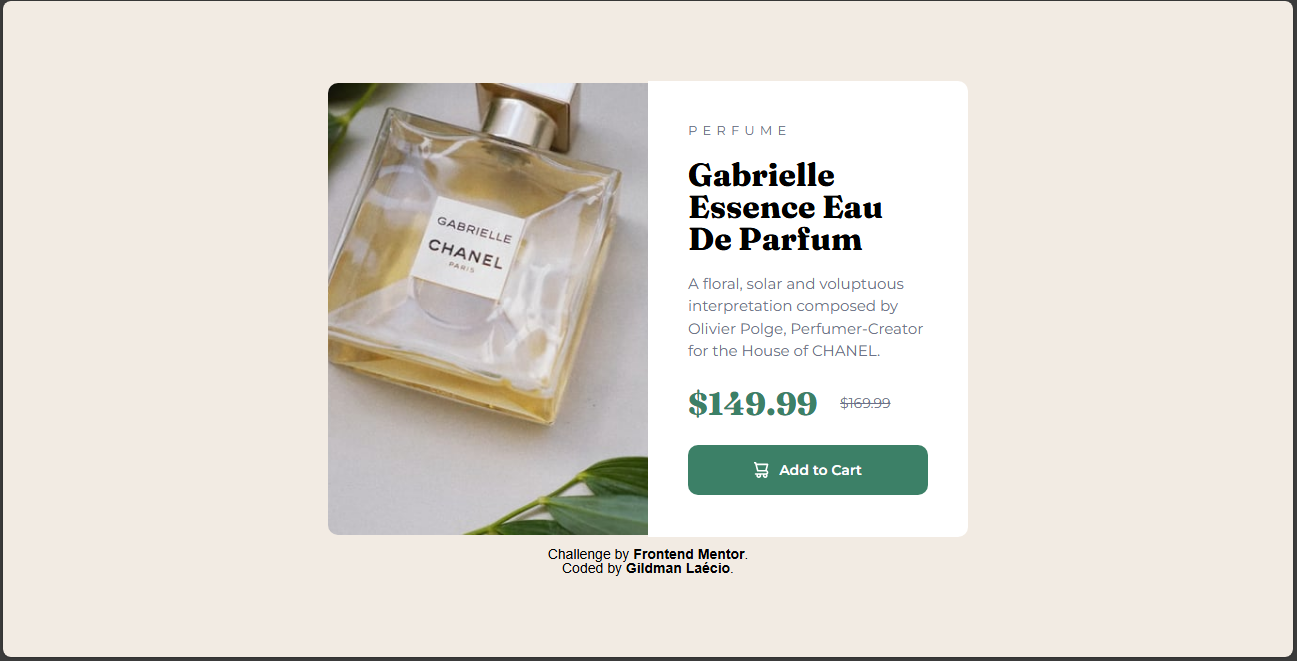
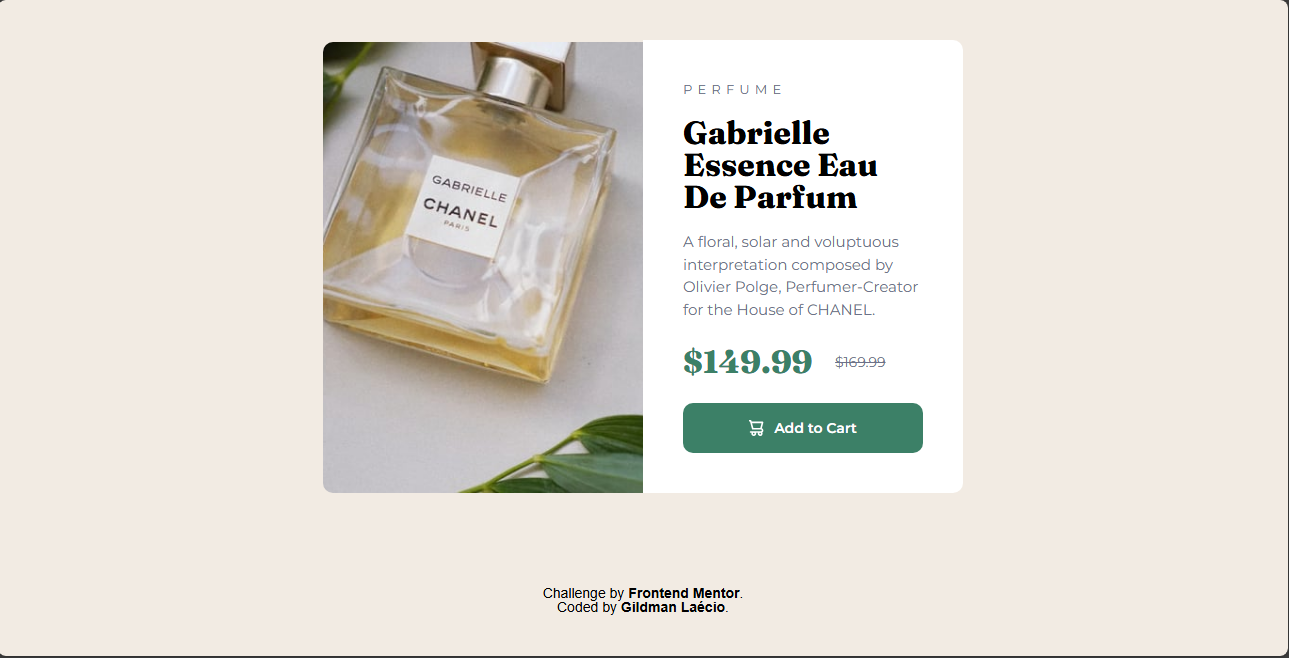
Insertion of the display grid

Changed region(s): [[0.2483, 0.0608, 0.7448, 0.9422], [0.0, 0.0, 1.0, 1.0], [0.0, 0.0, 0.031, 0.0304]]

diff --git a/assets/css/media-querie.css b/assets/css/media-querie.css
@@ -1,19 +1,32 @@
 @charset "UTF-8";
 
 @media screen and (width > 640px){
+  body {
+    display: grid;
+  }
+
   main {
     width: 640px;
-    flex-direction: row;
+    display: grid;
+    grid-template-areas:
+    'header section'
+    'footer footer'
+  }
+
+  #perfumeImage {
+    grid-area: header;
   }
 
   #perfumeImage img {
-    height: 452px;
+    /* height: 452px; */
+    height: 100%;
     border-top-left-radius: 10px;
     border-bottom-left-radius: 10px;
     border-top-right-radius: 0px;
   }
 
   #content {
+    grid-area: section;
     padding: 40px;
     border-top-right-radius: 10px;
     border-bottom-right-radius: 10px;
@@ -32,5 +45,9 @@
 
   #content button {
     margin-top: 25px;
+  }
+
+  #attribution {
+    grid-area: footer;
   }
 }

diff --git a/assets/css/main.css b/assets/css/main.css
@@ -3,17 +3,14 @@
 body {
   background-color: var(--cream);
   min-height: 100vh;
-  display: flex;
-  flex-direction: column;
-  justify-content: center;
+  display: grid;
+  justify-items: center;
   align-items: center;
   gap: 10px;
 }
 
 main {
   width: 320px;
-  display: flex;
-  flex-direction: column;
   transition: width .4s, height .4s;
   transition-timing-function: ease;
 }
